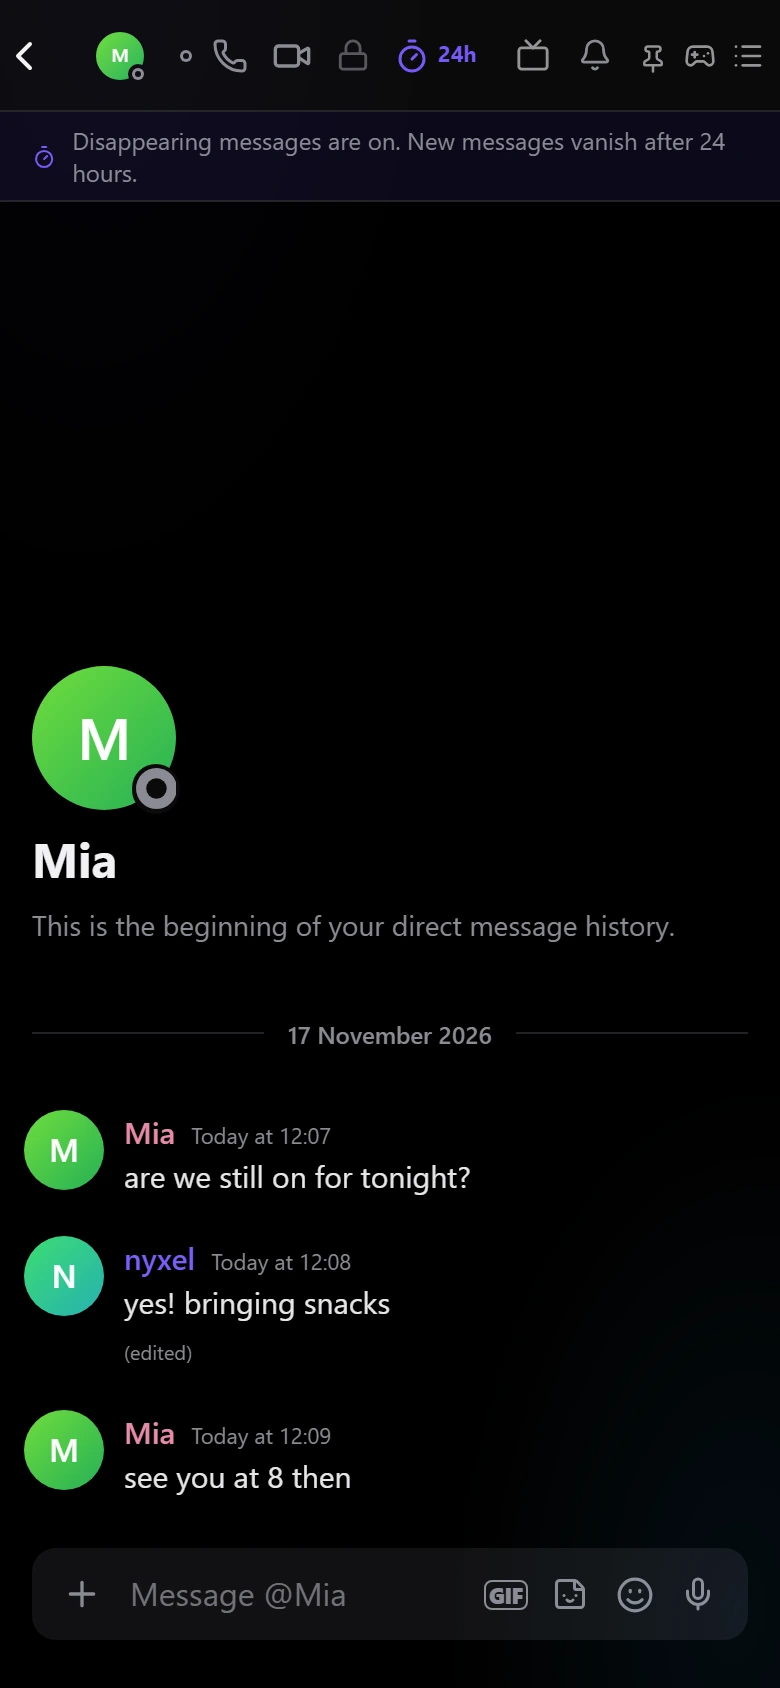
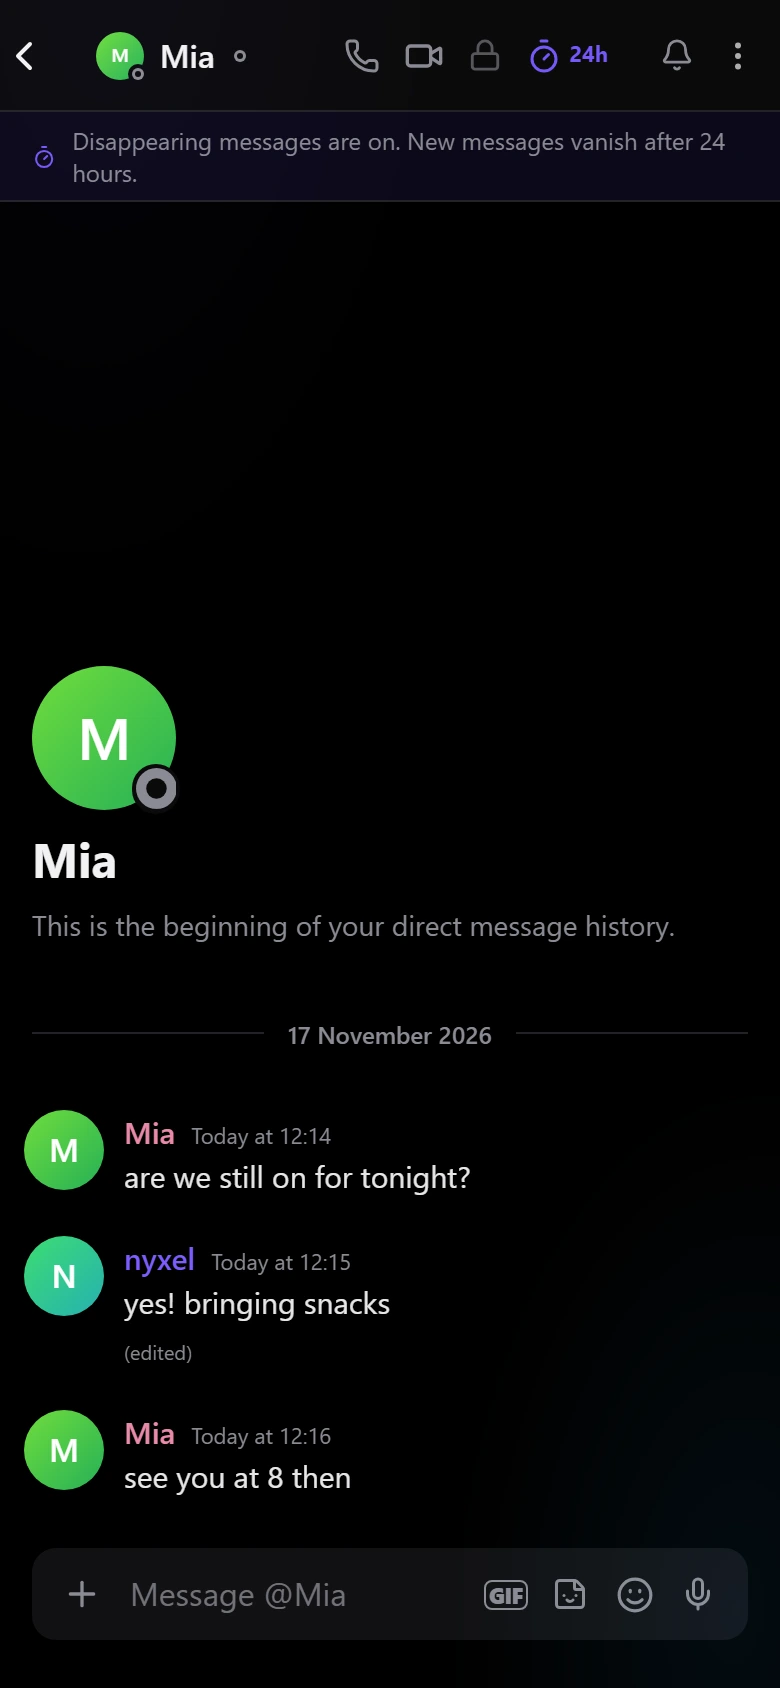
fix: phone chat header keeps the chat's name visible; Pinned, Media, Lists, Games and Watch together move into a ⋮ menu

diff --git a/src/components/MessagePane.tsx b/src/components/MessagePane.tsx
@@ -4,9 +4,10 @@
  * pins and search), jump to present, auto mark-as-read, pins and search panels, drag-and-drop
  * uploads, typing indicator and the composer.
  */
+import { openContextMenu } from './ContextMenu';
 import { ListsPanel } from './SharedLists';
 import { GamesPanel } from './ChatGames';
-import { ArrowDownIcon, GameIcon, ImageIcon, ListIcon, LockIcon, MegaphoneIcon, PinIcon } from './icons';
+import { ArrowDownIcon, GameIcon, ImageIcon, ListIcon, MoreVerticalIcon, TvIcon, LockIcon, MegaphoneIcon, PinIcon } from './icons';
 import { t } from '../lib/i18n';
 import { ask } from './ConfirmDialog';
 import { messageRenderKey, useServerMembers, useServers } from '../hooks/useChatData';
@@ -325,8 +326,28 @@ export function MessagePane({ scope, userId, serverId, header, placeholder, empt
         <MobileBack onClick={onBack} />
         {header}
         <div className="ml-3 flex shrink-0 items-center gap-2">
-          <WatchButton scopeId={scope.id} onOpen={() => setWatchOpen((v) => !v)} />
+          {/* On phones these move into the ⋮ menu so the chat's name keeps its room. */}
+          <button
+            type="button"
+            className="ae-chat-more leading-none opacity-70 hover:opacity-100"
+            aria-label={t('More')}
+            onClick={(e) =>
+              openContextMenu(e, [
+                { label: t('Pinned messages'), icon: <PinIcon size={15} />, onClick: () => setPanel('pins') },
+                { label: t('Media & files'), icon: <ImageIcon size={15} />, onClick: () => setPanel('media') },
+                { label: t('Lists'), icon: <ListIcon size={15} />, onClick: () => setPanel('lists') },
+                { label: t('Games'), icon: <GameIcon size={15} />, onClick: () => setPanel('games') },
+                { label: t('Watch together'), icon: <TvIcon size={15} />, onClick: () => setWatchOpen(true) },
+              ])
+            }
+          >
+            <MoreVerticalIcon size={18} className="ae-ico" />
+          </button>
+          <span className="ae-chat-extras contents">
+            <WatchButton scopeId={scope.id} onOpen={() => setWatchOpen((v) => !v)} />
+          </span>
           <NotificationBell scope={scope} />
+          <span className="ae-chat-extras contents">
           <button
             type="button"
             title="Pinned messages"
@@ -362,6 +383,7 @@ export function MessagePane({ scope, userId, serverId, header, placeholder, empt
           >
             <ImageIcon size={16} className="ae-ico" />
           </button>
+          </span>
           <form
             className="ae-desktop-only"
             onSubmit={(e) => {

diff --git a/src/index.css b/src/index.css
@@ -1456,3 +1456,15 @@ select,
     margin-inline: auto;
   }
 }
+
+/* Chat header: on phones, secondary buttons live in the ⋮ menu (MessagePane). */
+.ae-chat-more {
+  display: none;
+}
+:root[data-ae-phone='true'] .ae-chat-more {
+  display: inline-flex;
+  order: 99;
+}
+:root[data-ae-phone='true'] .ae-chat-extras {
+  display: none !important;
+}
